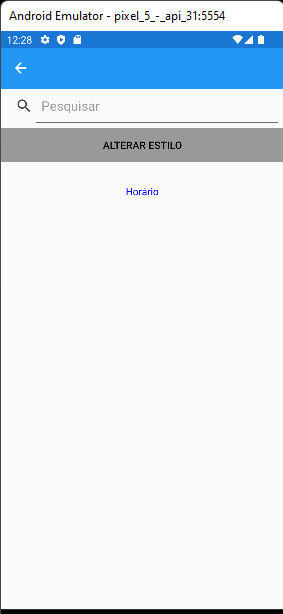
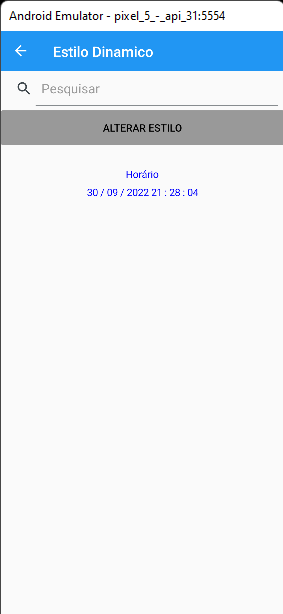
correção de time no estilo dinamico

diff --git a/Tp2/EstiloDinamicoPage.xaml b/Tp2/EstiloDinamicoPage.xaml
@@ -7,9 +7,7 @@
             <SearchBar Placeholder="Pesquisar"/>
             <Button Text="ALTERAR ESTILO" TextColor="Black"  BackgroundColor="#999999"/>
             <Label Text="Horário" HorizontalOptions="Center" Margin="0,25,0,0" TextColor="BLUE"/>
-            <Label Text="{Binding DateTime,StringFormat='{0:d/M/yyyy HH:mm:ss}'}" HorizontalOptions="CenterAndExpand" VerticalOptions="Center" TextColor="BLUE">
-                
-            </Label>
+           <Label x:Name="lblTime" HorizontalOptions="CenterAndExpand" VerticalOptions="Center" TextColor="BLUE"/>
         </StackLayout>
     </ContentPage.Content>
 </ContentPage>

diff --git a/Tp2/EstiloDinamicoPage.xaml.cs b/Tp2/EstiloDinamicoPage.xaml.cs
@@ -15,6 +15,13 @@ namespace Tp2
         public EstiloDinamicoPage()
         {
             InitializeComponent();
+             Device.StartTimer(TimeSpan.FromSeconds(1), timeLocal);
+        }
+
+         bool timeLocal()
+        {
+            lblTime.Text = DateTime.Now.ToString("dd / MM / yyyy HH : mm : ss");
+            return true;
         }
     }
 }
